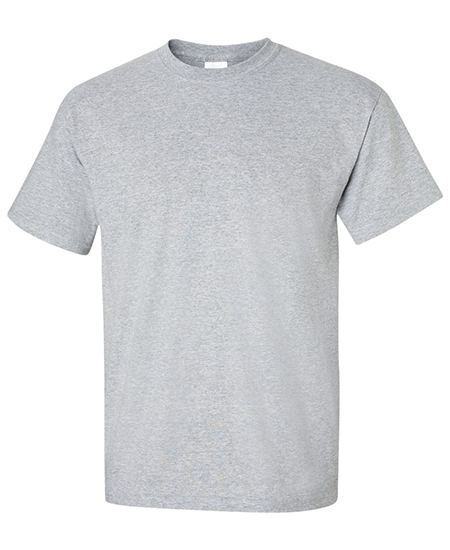
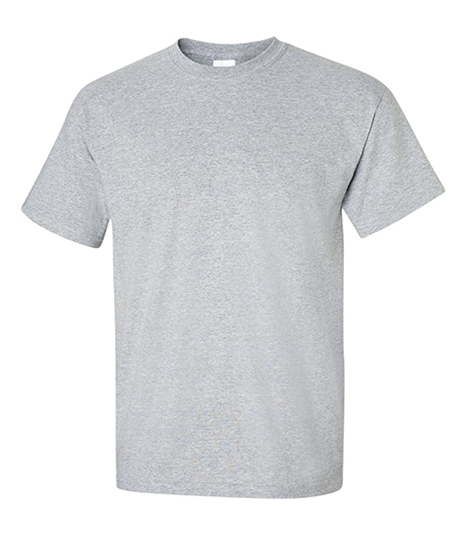
added more tshirt colors for editor

diff --git a/src/js/controllers/right-editor.js b/src/js/controllers/right-editor.js
@@ -11,12 +11,13 @@ function RightSandboxController ($scope, $http, SERVER, $state, $cookies) {
     },
     sportsGrey: {
       url: './images/tshirts/Sport Grey Front T-Shirt-450x550.png',
-      backUrl: './images/tshirts/Sports Grey Back T-Shirt.png',
+      backUrl: './images/tshirts/Sport Grey Back T-Shirt-450x550.png',
       class: 'grey',
       id: 'sports-grey'
     },
     black: {
-      url: 'https://skpsoft.com/baby/wp-content/uploads/2016/09/default-thumbnail.jpg',
+      url: './images/tshirts/Black Front T-Shirt-450x550.png',
+      backUrl: './images/tshirts/Black Back T-Shirt-450x550.png',
       class: 'black',
       id: 'black'
     },
@@ -26,7 +27,8 @@ function RightSandboxController ($scope, $http, SERVER, $state, $cookies) {
       id: 'dark-heather'
     },
     royal: {
-      url: 'https://skpsoft.com/baby/wp-content/uploads/2016/09/default-thumbnail.jpg',
+      url: './images/tshirts/Royal Front T-Shirt-450x550.png',
+      backUrl: './images/tshirts/Royal Back T-Shirt-450x550.png',
       class: 'light-blue darken-4',
       id: 'royal'
     },
@@ -56,7 +58,8 @@ function RightSandboxController ($scope, $http, SERVER, $state, $cookies) {
       id: 'neon-green'
     },
     neonOrange: {
-      url: 'https://skpsoft.com/baby/wp-content/uploads/2016/09/default-thumbnail.jpg',
+      url: './images/tshirts/Orange Front T-Shirt-450x550.png',
+      backUrl: './images/tshirts/Orange Back T-Shirt-450x550.png',
       class: 'orange accent-4',
       id: 'neon-orange'
     },
@@ -73,8 +76,8 @@ function RightSandboxController ($scope, $http, SERVER, $state, $cookies) {
   }
 
   function updateTshirt() {
-       console.log('inside updateTshirt');
-       $scope.$emit('updateTshirt') }
+   console.log('inside updateTshirt');
+   $scope.$emit('updateTshirt') }
 
   function exportProject (data) {
     $scope.$emit('needImage', data);
@@ -86,8 +89,8 @@ function RightSandboxController ($scope, $http, SERVER, $state, $cookies) {
     $http.put(`${SERVER}/tshirt/${updateInfo.id}`)
         .then(resp => { 
           console.log(resp)
-         })
-   });
+ })
+ });
 
 
     $scope.$on('projectInfo', (event, projectInfo) => {
